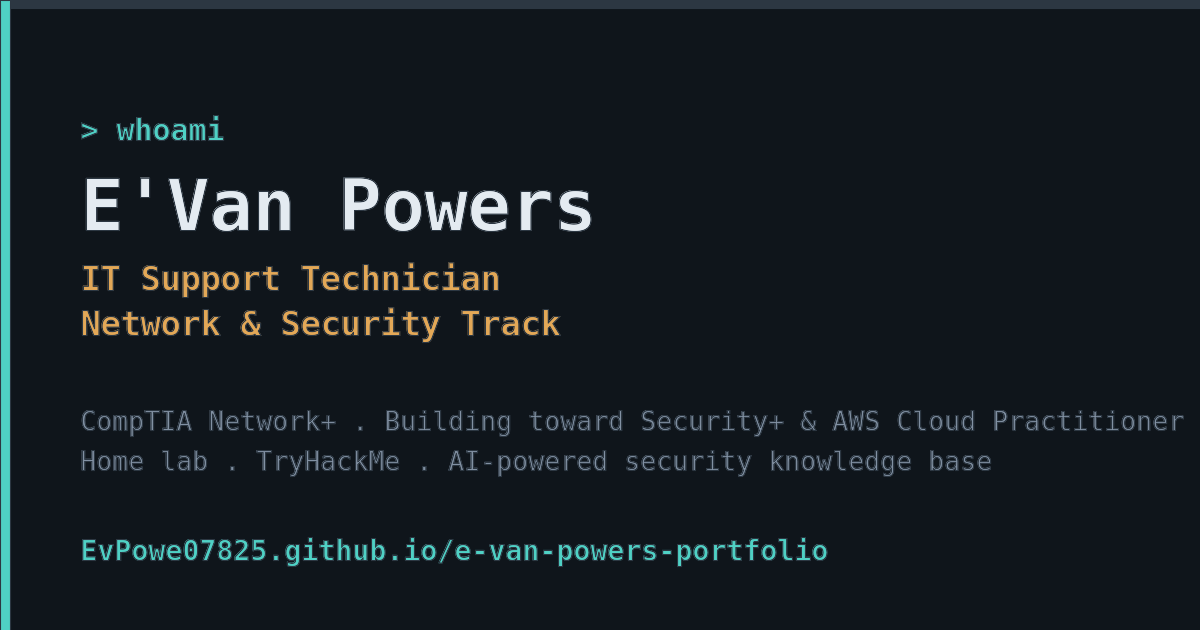
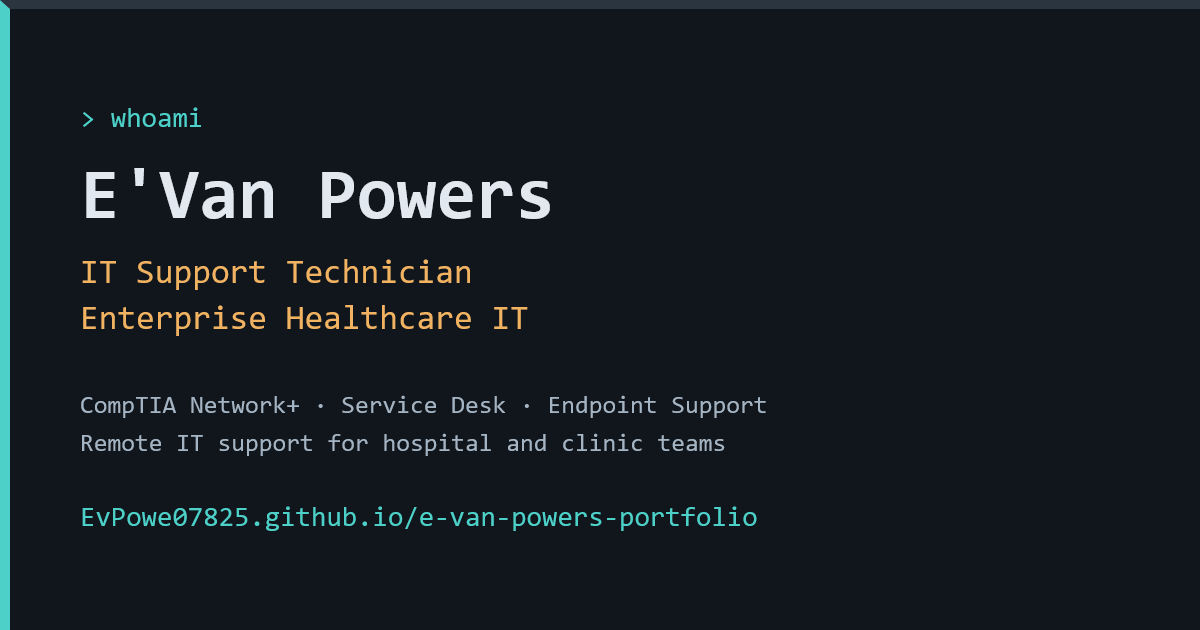
Fix mobile navigation and portfolio presentation

diff --git a/index.html b/index.html
@@ -60,7 +60,12 @@
   .nav ul{list-style:none;display:flex;gap:20px;margin:0;padding:0;}
   .nav a{color:var(--muted);font-size:14px;font-family:'IBM Plex Mono';}
   .nav a:hover{color:var(--accent);text-decoration:none;}
-  @media (max-width:600px){ .nav ul{gap:12px;} .nav a{font-size:12px;} }
+  @media (max-width:600px){
+    .nav{flex-direction:column;align-items:flex-start;gap:8px;padding:12px 24px;}
+    .nav ul{flex-wrap:wrap;gap:6px 12px;}
+    .nav a{font-size:12px;}
+    section[id], footer[id]{scroll-margin-top:125px;}
+  }
 
   /* ---------- Hero ---------- */
   .hero{padding:72px 0 48px;}
@@ -366,8 +371,8 @@
           <figcaption>Local LLM answering a query straight from vault notes</figcaption>
         </figure>
         <figure>
-          <img src="images/vault-graph.png" alt="Obsidian graph view showing linked notes across networking, security, and privilege escalation topics" loading="lazy">
-          <figcaption>Graph view of linked security &amp; networking notes</figcaption>
+          <img src="images/vault-graph.png" alt="Obsidian dashboard showing quick links and Security+ study topics" loading="lazy">
+          <figcaption>Obsidian dashboard with quick links and Security+ study topics</figcaption>
         </figure>
         <figure>
           <img src="images/vault-dashboard.png" alt="Vault dashboard using Dataview queries to track Security+ and Network+ topics still being studied" loading="lazy">
